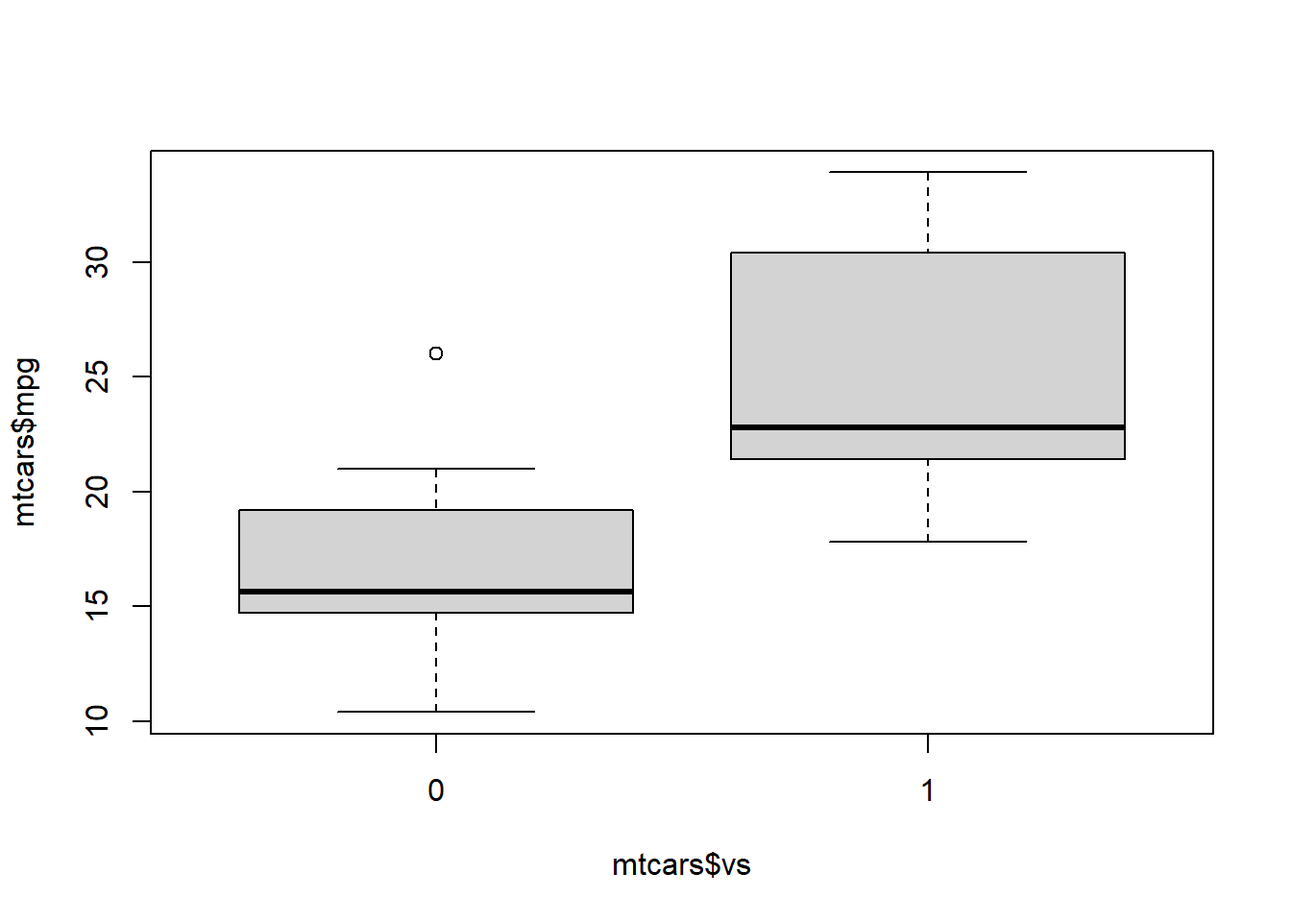
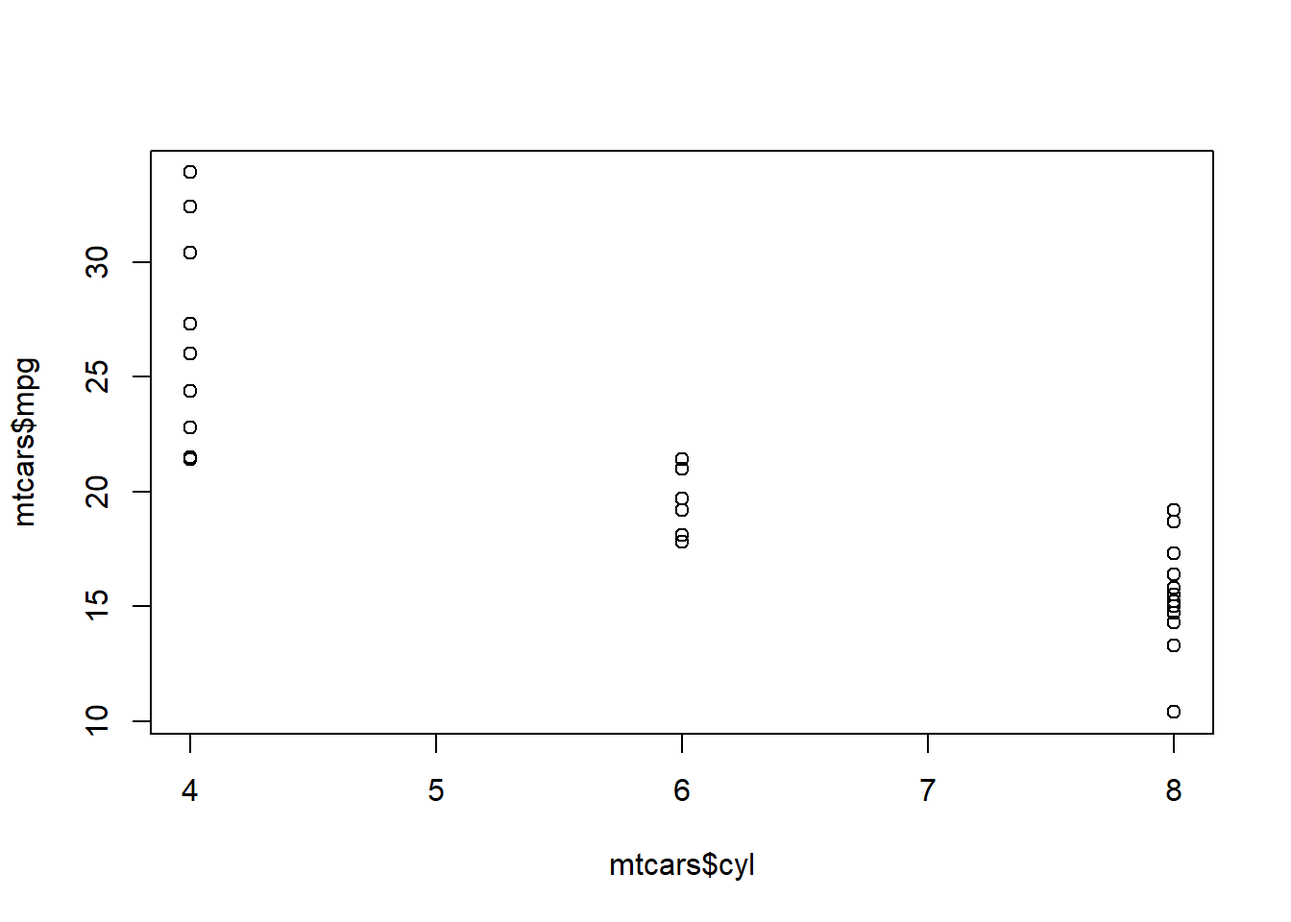
Update Viz

diff --git a/docs/dataviz.html b/docs/dataviz.html
@@ -1706,12 +1706,19 @@ TRUE </code></pre>
 <li>For example, the plot below would be better served as a boxplot.</li>
 </ul>
 <div class="cell">
-<div class="sourceCode cell-code" id="cb126"><pre class="sourceCode r code-with-copy"><code class="sourceCode r"><span id="cb126-1"><a href="#cb126-1" aria-hidden="true" tabindex="-1"></a><span class="fu">plot</span>(mtcars<span class="sc">$</span>mpg <span class="sc">~</span> mtcars<span class="sc">$</span>vs)</span>
-<span id="cb126-2"><a href="#cb126-2" aria-hidden="true" tabindex="-1"></a><span class="fu">boxplot</span>(mtcars<span class="sc">$</span>mpg <span class="sc">~</span> mtcars<span class="sc">$</span>vs)</span></code><button title="Copy to Clipboard" class="code-copy-button"><i class="bi"></i></button></pre></div>
+<div class="sourceCode cell-code" id="cb126"><pre class="sourceCode r code-with-copy"><code class="sourceCode r"><span id="cb126-1"><a href="#cb126-1" aria-hidden="true" tabindex="-1"></a><span class="fu">plot</span>(mtcars<span class="sc">$</span>mpg <span class="sc">~</span> mtcars<span class="sc">$</span>cyl)</span></code><button title="Copy to Clipboard" class="code-copy-button"><i class="bi"></i></button></pre></div>
 <div class="cell-output-display">
 <div>
 <figure class="figure">
 <p><img src="dataviz_files/figure-html/unnamed-chunk-63-1.png" class="img-fluid figure-img" alt="Plot Example with Incorrect Data Type" width="672"></p>
+</figure>
+</div>
+</div>
+<div class="sourceCode cell-code" id="cb127"><pre class="sourceCode r code-with-copy"><code class="sourceCode r"><span id="cb127-1"><a href="#cb127-1" aria-hidden="true" tabindex="-1"></a><span class="fu">boxplot</span>(mtcars<span class="sc">$</span>mpg <span class="sc">~</span> mtcars<span class="sc">$</span>cyl)</span></code><button title="Copy to Clipboard" class="code-copy-button"><i class="bi"></i></button></pre></div>
+<div class="cell-output-display">
+<div>
+<figure class="figure">
+<p><img src="dataviz_files/figure-html/unnamed-chunk-63-2.png" class="img-fluid figure-img" alt="Plot Example in Boxplot to Show Comparison" width="672"></p>
 </figure>
 </div>
 </div>
@@ -1720,7 +1727,7 @@ TRUE </code></pre>
 <li>Using ggplot, we would have the same issue. Since vs is a categorical variable, it does not look right when we use the geom_point() later.</li>
 </ul>
 <div class="cell">
-<div class="sourceCode cell-code" id="cb127"><pre class="sourceCode r code-with-copy"><code class="sourceCode r"><span id="cb127-1"><a href="#cb127-1" aria-hidden="true" tabindex="-1"></a><span class="fu">ggplot</span>(mtcars, <span class="fu">aes</span>(<span class="at">x =</span> vs, <span class="at">y =</span> mpg)) <span class="sc">+</span> <span class="fu">geom_point</span>() <span class="sc">+</span> <span class="fu">stat_smooth</span>(<span class="at">method =</span> <span class="st">"lm"</span>)</span></code><button title="Copy to Clipboard" class="code-copy-button"><i class="bi"></i></button></pre></div>
+<div class="sourceCode cell-code" id="cb128"><pre class="sourceCode r code-with-copy"><code class="sourceCode r"><span id="cb128-1"><a href="#cb128-1" aria-hidden="true" tabindex="-1"></a><span class="fu">ggplot</span>(mtcars, <span class="fu">aes</span>(cyl, mpg)) <span class="sc">+</span> <span class="fu">geom_point</span>() <span class="sc">+</span> <span class="fu">stat_smooth</span>(<span class="at">method =</span> <span class="st">"lm"</span>)</span></code><button title="Copy to Clipboard" class="code-copy-button"><i class="bi"></i></button></pre></div>
 <div class="cell-output-display">
 <div>
 <figure class="figure">
@@ -1732,13 +1739,31 @@ TRUE </code></pre>
 <ul>
 <li>Instead, we would want the geom_boxplot() layer like shown below. The stat_smooth() is also not an applicable layer to a boxplot and would need to be removed.<br>
 </li>
+<li>When you create multiple boxplots in ggplot2 and one or more variables are numeric but not converted to factors, only one boxplot may show up because ggplot2 treats numeric variables as continuous. Boxplots group data by categorical variables, so if your variable is continuous, ggplot interprets it as a single category and produces only one boxplot.</li>
+<li>Below, we still have an error.</li>
 </ul>
 <div class="cell">
-<div class="sourceCode cell-code" id="cb128"><pre class="sourceCode r code-with-copy"><code class="sourceCode r"><span id="cb128-1"><a href="#cb128-1" aria-hidden="true" tabindex="-1"></a><span class="fu">ggplot</span>(mtcars, <span class="fu">aes</span>(<span class="at">x =</span> vs, <span class="at">y =</span> mpg)) <span class="sc">+</span> <span class="fu">geom_boxplot</span>()</span></code><button title="Copy to Clipboard" class="code-copy-button"><i class="bi"></i></button></pre></div>
+<div class="sourceCode cell-code" id="cb129"><pre class="sourceCode r code-with-copy"><code class="sourceCode r"><span id="cb129-1"><a href="#cb129-1" aria-hidden="true" tabindex="-1"></a><span class="fu">ggplot</span>(mtcars, <span class="fu">aes</span>(cyl, mpg)) <span class="sc">+</span> <span class="fu">geom_boxplot</span>()</span></code><button title="Copy to Clipboard" class="code-copy-button"><i class="bi"></i></button></pre></div>
 <div class="cell-output-display">
 <div>
 <figure class="figure">
 <p><img src="dataviz_files/figure-html/unnamed-chunk-65-1.png" class="img-fluid figure-img" alt="ggplot2 Example with Boxplot" width="672"></p>
+</figure>
+</div>
+</div>
+</div>
+<ul>
+<li>Something still is not quite right here, so we would need to make sure cyl is correctly a factor before making the boxplot. Now, we should see multiple boxplots, one for each categorical level. To fix this, you need to convert the grouping variable to a factor using as.factor() in your data, so ggplot will recognize it as a categorical variable and display multiple boxplots accordingly.</li>
+</ul>
+<div class="cell">
+<div class="sourceCode cell-code" id="cb130"><pre class="sourceCode r code-with-copy"><code class="sourceCode r"><span id="cb130-1"><a href="#cb130-1" aria-hidden="true" tabindex="-1"></a>mtcars <span class="ot">&lt;-</span> mtcars <span class="sc">%&gt;%</span></span>
+<span id="cb130-2"><a href="#cb130-2" aria-hidden="true" tabindex="-1"></a>    <span class="fu">mutate</span>(<span class="at">cyl =</span> <span class="fu">as.factor</span>(cyl))</span>
+<span id="cb130-3"><a href="#cb130-3" aria-hidden="true" tabindex="-1"></a></span>
+<span id="cb130-4"><a href="#cb130-4" aria-hidden="true" tabindex="-1"></a><span class="fu">ggplot</span>(mtcars, <span class="fu">aes</span>(cyl, mpg)) <span class="sc">+</span> <span class="fu">geom_boxplot</span>()</span></code><button title="Copy to Clipboard" class="code-copy-button"><i class="bi"></i></button></pre></div>
+<div class="cell-output-display">
+<div>
+<figure class="figure">
+<p><img src="dataviz_files/figure-html/unnamed-chunk-66-1.png" class="img-fluid figure-img" width="672"></p>
 </figure>
 </div>
 </div>
@@ -1753,28 +1778,28 @@ TRUE </code></pre>
 <div class="cell-output-display">
 <div>
 <figure class="figure">
-<p><img src="dataviz_files/figure-html/unnamed-chunk-66-1.png" class="img-fluid figure-img" width="672"></p>
+<p><img src="dataviz_files/figure-html/unnamed-chunk-67-1.png" class="img-fluid figure-img" width="672"></p>
 </figure>
 </div>
 </div>
 <div class="cell-output-display">
 <div>
 <figure class="figure">
-<p><img src="dataviz_files/figure-html/unnamed-chunk-66-2.png" class="img-fluid figure-img" width="672"></p>
+<p><img src="dataviz_files/figure-html/unnamed-chunk-67-2.png" class="img-fluid figure-img" width="672"></p>
 </figure>
 </div>
 </div>
 <div class="cell-output-display">
 <div>
 <figure class="figure">
-<p><img src="dataviz_files/figure-html/unnamed-chunk-66-3.png" class="img-fluid figure-img" width="672"></p>
+<p><img src="dataviz_files/figure-html/unnamed-chunk-67-3.png" class="img-fluid figure-img" width="672"></p>
 </figure>
 </div>
 </div>
 <div class="cell-output-display">
 <div>
 <figure class="figure">
-<p><img src="dataviz_files/figure-html/unnamed-chunk-66-4.png" class="img-fluid figure-img" width="672"></p>
+<p><img src="dataviz_files/figure-html/unnamed-chunk-67-4.png" class="img-fluid figure-img" width="672"></p>
 </figure>
 </div>
 </div>
@@ -1796,21 +1821,21 @@ TRUE </code></pre>
 <li>The select statement in dplyr has a conflict with the select statement in MASS. Since we used MASS earlier, we have to specify which package we want to use select from. We want to use select from dplyr, so we add dplyr:: before the function.</li>
 </ul>
 <div class="cell">
-<div class="sourceCode cell-code" id="cb129"><pre class="sourceCode r code-with-copy"><code class="sourceCode r"><span id="cb129-1"><a href="#cb129-1" aria-hidden="true" tabindex="-1"></a>nhanes <span class="ot">&lt;-</span> <span class="fu">read.csv</span>(<span class="st">"data/nhanes2012.csv"</span>)</span>
-<span id="cb129-2"><a href="#cb129-2" aria-hidden="true" tabindex="-1"></a><span class="co"># summary(nhanes)</span></span>
-<span id="cb129-3"><a href="#cb129-3" aria-hidden="true" tabindex="-1"></a></span>
-<span id="cb129-4"><a href="#cb129-4" aria-hidden="true" tabindex="-1"></a>nhanes.clean <span class="ot">&lt;-</span> nhanes <span class="sc">%&gt;%</span></span>
-<span id="cb129-5"><a href="#cb129-5" aria-hidden="true" tabindex="-1"></a>    dplyr<span class="sc">::</span><span class="fu">select</span>(AUQ300, AUQ310, AUQ320, AUQ060, AUQ070, AUQ080) <span class="sc">%&gt;%</span></span>
-<span id="cb129-6"><a href="#cb129-6" aria-hidden="true" tabindex="-1"></a>    <span class="fu">mutate</span>(<span class="at">AUQ300 =</span> <span class="fu">recode_factor</span>(AUQ300, <span class="st">`</span><span class="at">1</span><span class="st">`</span> <span class="ot">=</span> <span class="st">"Yes"</span>, <span class="st">`</span><span class="at">2</span><span class="st">`</span> <span class="ot">=</span> <span class="st">"No"</span>)) <span class="sc">%&gt;%</span></span>
-<span id="cb129-7"><a href="#cb129-7" aria-hidden="true" tabindex="-1"></a>    <span class="fu">mutate</span>(<span class="at">AUQ310 =</span> <span class="fu">recode_factor</span>(AUQ310, <span class="st">`</span><span class="at">1</span><span class="st">`</span> <span class="ot">=</span> <span class="st">"1 to less than 100"</span>, <span class="st">`</span><span class="at">2</span><span class="st">`</span> <span class="ot">=</span> <span class="st">"100 to less than 1000"</span>,</span>
-<span id="cb129-8"><a href="#cb129-8" aria-hidden="true" tabindex="-1"></a>        <span class="st">`</span><span class="at">3</span><span class="st">`</span> <span class="ot">=</span> <span class="st">"1000 to less than 10k"</span>, <span class="st">`</span><span class="at">4</span><span class="st">`</span> <span class="ot">=</span> <span class="st">"10k to less than 50k"</span>, <span class="st">`</span><span class="at">5</span><span class="st">`</span> <span class="ot">=</span> <span class="st">"50k or more"</span>,</span>
-<span id="cb129-9"><a href="#cb129-9" aria-hidden="true" tabindex="-1"></a>        <span class="st">`</span><span class="at">7</span><span class="st">`</span> <span class="ot">=</span> <span class="st">"Refused"</span>, <span class="st">`</span><span class="at">9</span><span class="st">`</span> <span class="ot">=</span> <span class="st">"Don't know"</span>)) <span class="sc">%&gt;%</span></span>
-<span id="cb129-10"><a href="#cb129-10" aria-hidden="true" tabindex="-1"></a>    <span class="fu">mutate</span>(<span class="at">AUQ060 =</span> <span class="fu">recode_factor</span>(AUQ060, <span class="st">`</span><span class="at">1</span><span class="st">`</span> <span class="ot">=</span> <span class="st">"Yes"</span>, <span class="st">`</span><span class="at">2</span><span class="st">`</span> <span class="ot">=</span> <span class="st">"No"</span>)) <span class="sc">%&gt;%</span></span>
-<span id="cb129-11"><a href="#cb129-11" aria-hidden="true" tabindex="-1"></a>    <span class="fu">mutate</span>(<span class="at">AUQ070 =</span> <span class="fu">recode_factor</span>(AUQ070, <span class="st">`</span><span class="at">1</span><span class="st">`</span> <span class="ot">=</span> <span class="st">"Yes"</span>, <span class="st">`</span><span class="at">2</span><span class="st">`</span> <span class="ot">=</span> <span class="st">"No"</span>)) <span class="sc">%&gt;%</span></span>
-<span id="cb129-12"><a href="#cb129-12" aria-hidden="true" tabindex="-1"></a>    <span class="fu">mutate</span>(<span class="at">AUQ080 =</span> <span class="fu">recode_factor</span>(AUQ080, <span class="st">`</span><span class="at">1</span><span class="st">`</span> <span class="ot">=</span> <span class="st">"Yes"</span>, <span class="st">`</span><span class="at">2</span><span class="st">`</span> <span class="ot">=</span> <span class="st">"No"</span>)) <span class="sc">%&gt;%</span></span>
-<span id="cb129-13"><a href="#cb129-13" aria-hidden="true" tabindex="-1"></a>    <span class="fu">mutate</span>(<span class="at">AUQ320 =</span> <span class="fu">recode_factor</span>(AUQ320, <span class="st">`</span><span class="at">1</span><span class="st">`</span> <span class="ot">=</span> <span class="st">"Always"</span>, <span class="st">`</span><span class="at">2</span><span class="st">`</span> <span class="ot">=</span> <span class="st">"Usually"</span>,</span>
-<span id="cb129-14"><a href="#cb129-14" aria-hidden="true" tabindex="-1"></a>        <span class="st">`</span><span class="at">3</span><span class="st">`</span> <span class="ot">=</span> <span class="st">"About half the time"</span>, <span class="st">`</span><span class="at">4</span><span class="st">`</span> <span class="ot">=</span> <span class="st">"Seldom"</span>, <span class="st">`</span><span class="at">5</span><span class="st">`</span> <span class="ot">=</span> <span class="st">"Never"</span>))</span>
-<span id="cb129-15"><a href="#cb129-15" aria-hidden="true" tabindex="-1"></a><span class="fu">summary</span>(nhanes.clean)</span></code><button title="Copy to Clipboard" class="code-copy-button"><i class="bi"></i></button></pre></div>
+<div class="sourceCode cell-code" id="cb131"><pre class="sourceCode r code-with-copy"><code class="sourceCode r"><span id="cb131-1"><a href="#cb131-1" aria-hidden="true" tabindex="-1"></a>nhanes <span class="ot">&lt;-</span> <span class="fu">read.csv</span>(<span class="st">"data/nhanes2012.csv"</span>)</span>
+<span id="cb131-2"><a href="#cb131-2" aria-hidden="true" tabindex="-1"></a><span class="co"># summary(nhanes)</span></span>
+<span id="cb131-3"><a href="#cb131-3" aria-hidden="true" tabindex="-1"></a></span>
+<span id="cb131-4"><a href="#cb131-4" aria-hidden="true" tabindex="-1"></a>nhanes.clean <span class="ot">&lt;-</span> nhanes <span class="sc">%&gt;%</span></span>
+<span id="cb131-5"><a href="#cb131-5" aria-hidden="true" tabindex="-1"></a>    dplyr<span class="sc">::</span><span class="fu">select</span>(AUQ300, AUQ310, AUQ320, AUQ060, AUQ070, AUQ080) <span class="sc">%&gt;%</span></span>
+<span id="cb131-6"><a href="#cb131-6" aria-hidden="true" tabindex="-1"></a>    <span class="fu">mutate</span>(<span class="at">AUQ300 =</span> <span class="fu">recode_factor</span>(AUQ300, <span class="st">`</span><span class="at">1</span><span class="st">`</span> <span class="ot">=</span> <span class="st">"Yes"</span>, <span class="st">`</span><span class="at">2</span><span class="st">`</span> <span class="ot">=</span> <span class="st">"No"</span>)) <span class="sc">%&gt;%</span></span>
+<span id="cb131-7"><a href="#cb131-7" aria-hidden="true" tabindex="-1"></a>    <span class="fu">mutate</span>(<span class="at">AUQ310 =</span> <span class="fu">recode_factor</span>(AUQ310, <span class="st">`</span><span class="at">1</span><span class="st">`</span> <span class="ot">=</span> <span class="st">"1 to less than 100"</span>, <span class="st">`</span><span class="at">2</span><span class="st">`</span> <span class="ot">=</span> <span class="st">"100 to less than 1000"</span>,</span>
+<span id="cb131-8"><a href="#cb131-8" aria-hidden="true" tabindex="-1"></a>        <span class="st">`</span><span class="at">3</span><span class="st">`</span> <span class="ot">=</span> <span class="st">"1000 to less than 10k"</span>, <span class="st">`</span><span class="at">4</span><span class="st">`</span> <span class="ot">=</span> <span class="st">"10k to less than 50k"</span>, <span class="st">`</span><span class="at">5</span><span class="st">`</span> <span class="ot">=</span> <span class="st">"50k or more"</span>,</span>
+<span id="cb131-9"><a href="#cb131-9" aria-hidden="true" tabindex="-1"></a>        <span class="st">`</span><span class="at">7</span><span class="st">`</span> <span class="ot">=</span> <span class="st">"Refused"</span>, <span class="st">`</span><span class="at">9</span><span class="st">`</span> <span class="ot">=</span> <span class="st">"Don't know"</span>)) <span class="sc">%&gt;%</span></span>
+<span id="cb131-10"><a href="#cb131-10" aria-hidden="true" tabindex="-1"></a>    <span class="fu">mutate</span>(<span class="at">AUQ060 =</span> <span class="fu">recode_factor</span>(AUQ060, <span class="st">`</span><span class="at">1</span><span class="st">`</span> <span class="ot">=</span> <span class="st">"Yes"</span>, <span class="st">`</span><span class="at">2</span><span class="st">`</span> <span class="ot">=</span> <span class="st">"No"</span>)) <span class="sc">%&gt;%</span></span>
+<span id="cb131-11"><a href="#cb131-11" aria-hidden="true" tabindex="-1"></a>    <span class="fu">mutate</span>(<span class="at">AUQ070 =</span> <span class="fu">recode_factor</span>(AUQ070, <span class="st">`</span><span class="at">1</span><span class="st">`</span> <span class="ot">=</span> <span class="st">"Yes"</span>, <span class="st">`</span><span class="at">2</span><span class="st">`</span> <span class="ot">=</span> <span class="st">"No"</span>)) <span class="sc">%&gt;%</span></span>
+<span id="cb131-12"><a href="#cb131-12" aria-hidden="true" tabindex="-1"></a>    <span class="fu">mutate</span>(<span class="at">AUQ080 =</span> <span class="fu">recode_factor</span>(AUQ080, <span class="st">`</span><span class="at">1</span><span class="st">`</span> <span class="ot">=</span> <span class="st">"Yes"</span>, <span class="st">`</span><span class="at">2</span><span class="st">`</span> <span class="ot">=</span> <span class="st">"No"</span>)) <span class="sc">%&gt;%</span></span>
+<span id="cb131-13"><a href="#cb131-13" aria-hidden="true" tabindex="-1"></a>    <span class="fu">mutate</span>(<span class="at">AUQ320 =</span> <span class="fu">recode_factor</span>(AUQ320, <span class="st">`</span><span class="at">1</span><span class="st">`</span> <span class="ot">=</span> <span class="st">"Always"</span>, <span class="st">`</span><span class="at">2</span><span class="st">`</span> <span class="ot">=</span> <span class="st">"Usually"</span>,</span>
+<span id="cb131-14"><a href="#cb131-14" aria-hidden="true" tabindex="-1"></a>        <span class="st">`</span><span class="at">3</span><span class="st">`</span> <span class="ot">=</span> <span class="st">"About half the time"</span>, <span class="st">`</span><span class="at">4</span><span class="st">`</span> <span class="ot">=</span> <span class="st">"Seldom"</span>, <span class="st">`</span><span class="at">5</span><span class="st">`</span> <span class="ot">=</span> <span class="st">"Never"</span>))</span>
+<span id="cb131-15"><a href="#cb131-15" aria-hidden="true" tabindex="-1"></a><span class="fu">summary</span>(nhanes.clean)</span></code><button title="Copy to Clipboard" class="code-copy-button"><i class="bi"></i></button></pre></div>
 <div class="cell-output cell-output-stdout">
 <pre><code>  AUQ300                       AUQ310                     AUQ320    
  Yes :1613   1 to less than 100   : 701   Always             : 583  
@@ -1835,82 +1860,82 @@ TRUE </code></pre>
 <li>The most applicable chart to graph 2 categorical variables is a barchart. This requires calculating frequencies, and then graphing. Using ggplot, the frequencies are calculated automatically.</li>
 </ul>
 <div class="cell">
-<div class="sourceCode cell-code" id="cb131"><pre class="sourceCode r code-with-copy"><code class="sourceCode r"><span id="cb131-1"><a href="#cb131-1" aria-hidden="true" tabindex="-1"></a>nhanes.clean <span class="sc">%&gt;%</span></span>
-<span id="cb131-2"><a href="#cb131-2" aria-hidden="true" tabindex="-1"></a>    <span class="fu">drop_na</span>(AUQ310) <span class="sc">%&gt;%</span></span>
-<span id="cb131-3"><a href="#cb131-3" aria-hidden="true" tabindex="-1"></a>    <span class="fu">drop_na</span>(AUQ060) <span class="sc">%&gt;%</span></span>
-<span id="cb131-4"><a href="#cb131-4" aria-hidden="true" tabindex="-1"></a>    <span class="fu">ggplot</span>(<span class="fu">aes</span>(<span class="at">x =</span> AUQ310, <span class="at">fill =</span> AUQ060)) <span class="sc">+</span> <span class="fu">geom_bar</span>(<span class="at">position =</span> <span class="st">"dodge"</span>) <span class="sc">+</span></span>
-<span id="cb131-5"><a href="#cb131-5" aria-hidden="true" tabindex="-1"></a>    <span class="fu">labs</span>(<span class="at">x =</span> <span class="st">"How many rounds have you fired"</span>, <span class="at">title =</span> <span class="st">"Hearing Whisper Across Room vs. Num Rounds Fired"</span>,</span>
-<span id="cb131-6"><a href="#cb131-6" aria-hidden="true" tabindex="-1"></a>        <span class="at">y =</span> <span class="st">"Frequency"</span>)</span></code><button title="Copy to Clipboard" class="code-copy-button"><i class="bi"></i></button></pre></div>
-<div class="cell-output-display">
-<div>
-<figure class="figure">
-<p><img src="dataviz_files/figure-html/unnamed-chunk-68-1.png" class="img-fluid figure-img" width="672"></p>
-</figure>
-</div>
-</div>
-<div class="sourceCode cell-code" id="cb132"><pre class="sourceCode r code-with-copy"><code class="sourceCode r"><span id="cb132-1"><a href="#cb132-1" aria-hidden="true" tabindex="-1"></a>nhanes.clean <span class="sc">%&gt;%</span></span>
-<span id="cb132-2"><a href="#cb132-2" aria-hidden="true" tabindex="-1"></a>    <span class="fu">drop_na</span>(AUQ310) <span class="sc">%&gt;%</span></span>
-<span id="cb132-3"><a href="#cb132-3" aria-hidden="true" tabindex="-1"></a>    <span class="fu">drop_na</span>(AUQ070) <span class="sc">%&gt;%</span></span>
-<span id="cb132-4"><a href="#cb132-4" aria-hidden="true" tabindex="-1"></a>    <span class="fu">ggplot</span>(<span class="fu">aes</span>(<span class="at">x =</span> AUQ310, <span class="at">fill =</span> AUQ070)) <span class="sc">+</span> <span class="fu">geom_bar</span>(<span class="at">position =</span> <span class="st">"dodge"</span>) <span class="sc">+</span></span>
-<span id="cb132-5"><a href="#cb132-5" aria-hidden="true" tabindex="-1"></a>    <span class="fu">labs</span>(<span class="at">x =</span> <span class="st">"How many rounds have you fired"</span>, <span class="at">title =</span> <span class="st">"Hearing Normal Across Room vs. Num Rounds Fired"</span>,</span>
-<span id="cb132-6"><a href="#cb132-6" aria-hidden="true" tabindex="-1"></a>        <span class="at">y =</span> <span class="st">"Frequency"</span>)</span></code><button title="Copy to Clipboard" class="code-copy-button"><i class="bi"></i></button></pre></div>
-<div class="cell-output-display">
-<div>
-<figure class="figure">
-<p><img src="dataviz_files/figure-html/unnamed-chunk-68-2.png" class="img-fluid figure-img" width="672"></p>
-</figure>
-</div>
-</div>
 <div class="sourceCode cell-code" id="cb133"><pre class="sourceCode r code-with-copy"><code class="sourceCode r"><span id="cb133-1"><a href="#cb133-1" aria-hidden="true" tabindex="-1"></a>nhanes.clean <span class="sc">%&gt;%</span></span>
 <span id="cb133-2"><a href="#cb133-2" aria-hidden="true" tabindex="-1"></a>    <span class="fu">drop_na</span>(AUQ310) <span class="sc">%&gt;%</span></span>
-<span id="cb133-3"><a href="#cb133-3" aria-hidden="true" tabindex="-1"></a>    <span class="fu">drop_na</span>(AUQ080) <span class="sc">%&gt;%</span></span>
-<span id="cb133-4"><a href="#cb133-4" aria-hidden="true" tabindex="-1"></a>    <span class="fu">ggplot</span>(<span class="fu">aes</span>(<span class="at">x =</span> AUQ310, <span class="at">fill =</span> AUQ080)) <span class="sc">+</span> <span class="fu">geom_bar</span>(<span class="at">position =</span> <span class="st">"dodge"</span>) <span class="sc">+</span></span>
-<span id="cb133-5"><a href="#cb133-5" aria-hidden="true" tabindex="-1"></a>    <span class="fu">labs</span>(<span class="at">x =</span> <span class="st">"How many rounds have you fired"</span>, <span class="at">title =</span> <span class="st">"Hearing Shout Across Room vs. Num Rounds Fired"</span>,</span>
+<span id="cb133-3"><a href="#cb133-3" aria-hidden="true" tabindex="-1"></a>    <span class="fu">drop_na</span>(AUQ060) <span class="sc">%&gt;%</span></span>
+<span id="cb133-4"><a href="#cb133-4" aria-hidden="true" tabindex="-1"></a>    <span class="fu">ggplot</span>(<span class="fu">aes</span>(<span class="at">x =</span> AUQ310, <span class="at">fill =</span> AUQ060)) <span class="sc">+</span> <span class="fu">geom_bar</span>(<span class="at">position =</span> <span class="st">"dodge"</span>) <span class="sc">+</span></span>
+<span id="cb133-5"><a href="#cb133-5" aria-hidden="true" tabindex="-1"></a>    <span class="fu">labs</span>(<span class="at">x =</span> <span class="st">"How many rounds have you fired"</span>, <span class="at">title =</span> <span class="st">"Hearing Whisper Across Room vs. Num Rounds Fired"</span>,</span>
 <span id="cb133-6"><a href="#cb133-6" aria-hidden="true" tabindex="-1"></a>        <span class="at">y =</span> <span class="st">"Frequency"</span>)</span></code><button title="Copy to Clipboard" class="code-copy-button"><i class="bi"></i></button></pre></div>
 <div class="cell-output-display">
 <div>
 <figure class="figure">
-<p><img src="dataviz_files/figure-html/unnamed-chunk-68-3.png" class="img-fluid figure-img" width="672"></p>
+<p><img src="dataviz_files/figure-html/unnamed-chunk-69-1.png" class="img-fluid figure-img" width="672"></p>
 </figure>
 </div>
 </div>
-<div class="sourceCode cell-code" id="cb134"><pre class="sourceCode r code-with-copy"><code class="sourceCode r"><span id="cb134-1"><a href="#cb134-1" aria-hidden="true" tabindex="-1"></a><span class="do">############# Wear hearing protection when shooting</span></span>
-<span id="cb134-2"><a href="#cb134-2" aria-hidden="true" tabindex="-1"></a>nhanes.clean <span class="sc">%&gt;%</span></span>
-<span id="cb134-3"><a href="#cb134-3" aria-hidden="true" tabindex="-1"></a>    <span class="fu">drop_na</span>(AUQ320) <span class="sc">%&gt;%</span></span>
-<span id="cb134-4"><a href="#cb134-4" aria-hidden="true" tabindex="-1"></a>    <span class="fu">drop_na</span>(AUQ060) <span class="sc">%&gt;%</span></span>
-<span id="cb134-5"><a href="#cb134-5" aria-hidden="true" tabindex="-1"></a>    <span class="fu">ggplot</span>(<span class="fu">aes</span>(<span class="at">x =</span> AUQ320, <span class="at">fill =</span> AUQ060)) <span class="sc">+</span> <span class="fu">geom_bar</span>(<span class="at">position =</span> <span class="st">"dodge"</span>) <span class="sc">+</span></span>
-<span id="cb134-6"><a href="#cb134-6" aria-hidden="true" tabindex="-1"></a>    <span class="fu">labs</span>(<span class="at">x =</span> <span class="st">"Wear hearing protection when shooting"</span>, <span class="at">title =</span> <span class="st">"Hearing Whisper Across Room vs. Use of Hearing Protection"</span>,</span>
-<span id="cb134-7"><a href="#cb134-7" aria-hidden="true" tabindex="-1"></a>        <span class="at">y =</span> <span class="st">"Frequency"</span>)</span></code><button title="Copy to Clipboard" class="code-copy-button"><i class="bi"></i></button></pre></div>
+<div class="sourceCode cell-code" id="cb134"><pre class="sourceCode r code-with-copy"><code class="sourceCode r"><span id="cb134-1"><a href="#cb134-1" aria-hidden="true" tabindex="-1"></a>nhanes.clean <span class="sc">%&gt;%</span></span>
+<span id="cb134-2"><a href="#cb134-2" aria-hidden="true" tabindex="-1"></a>    <span class="fu">drop_na</span>(AUQ310) <span class="sc">%&gt;%</span></span>
+<span id="cb134-3"><a href="#cb134-3" aria-hidden="true" tabindex="-1"></a>    <span class="fu">drop_na</span>(AUQ070) <span class="sc">%&gt;%</span></span>
+<span id="cb134-4"><a href="#cb134-4" aria-hidden="true" tabindex="-1"></a>    <span class="fu">ggplot</span>(<span class="fu">aes</span>(<span class="at">x =</span> AUQ310, <span class="at">fill =</span> AUQ070)) <span class="sc">+</span> <span class="fu">geom_bar</span>(<span class="at">position =</span> <span class="st">"dodge"</span>) <span class="sc">+</span></span>
+<span id="cb134-5"><a href="#cb134-5" aria-hidden="true" tabindex="-1"></a>    <span class="fu">labs</span>(<span class="at">x =</span> <span class="st">"How many rounds have you fired"</span>, <span class="at">title =</span> <span class="st">"Hearing Normal Across Room vs. Num Rounds Fired"</span>,</span>
+<span id="cb134-6"><a href="#cb134-6" aria-hidden="true" tabindex="-1"></a>        <span class="at">y =</span> <span class="st">"Frequency"</span>)</span></code><button title="Copy to Clipboard" class="code-copy-button"><i class="bi"></i></button></pre></div>
 <div class="cell-output-display">
 <div>
 <figure class="figure">
-<p><img src="dataviz_files/figure-html/unnamed-chunk-68-4.png" class="img-fluid figure-img" width="672"></p>
+<p><img src="dataviz_files/figure-html/unnamed-chunk-69-2.png" class="img-fluid figure-img" width="672"></p>
 </figure>
 </div>
 </div>
 <div class="sourceCode cell-code" id="cb135"><pre class="sourceCode r code-with-copy"><code class="sourceCode r"><span id="cb135-1"><a href="#cb135-1" aria-hidden="true" tabindex="-1"></a>nhanes.clean <span class="sc">%&gt;%</span></span>
-<span id="cb135-2"><a href="#cb135-2" aria-hidden="true" tabindex="-1"></a>    <span class="fu">drop_na</span>(AUQ320) <span class="sc">%&gt;%</span></span>
-<span id="cb135-3"><a href="#cb135-3" aria-hidden="true" tabindex="-1"></a>    <span class="fu">drop_na</span>(AUQ070) <span class="sc">%&gt;%</span></span>
-<span id="cb135-4"><a href="#cb135-4" aria-hidden="true" tabindex="-1"></a>    <span class="fu">ggplot</span>(<span class="fu">aes</span>(<span class="at">x =</span> AUQ320, <span class="at">fill =</span> AUQ070)) <span class="sc">+</span> <span class="fu">geom_bar</span>(<span class="at">position =</span> <span class="st">"dodge"</span>) <span class="sc">+</span></span>
-<span id="cb135-5"><a href="#cb135-5" aria-hidden="true" tabindex="-1"></a>    <span class="fu">labs</span>(<span class="at">x =</span> <span class="st">"Wear hearing protection when shooting"</span>, <span class="at">title =</span> <span class="st">"Hearing Normal Across Room vs. Use of Hearing Protection"</span>,</span>
+<span id="cb135-2"><a href="#cb135-2" aria-hidden="true" tabindex="-1"></a>    <span class="fu">drop_na</span>(AUQ310) <span class="sc">%&gt;%</span></span>
+<span id="cb135-3"><a href="#cb135-3" aria-hidden="true" tabindex="-1"></a>    <span class="fu">drop_na</span>(AUQ080) <span class="sc">%&gt;%</span></span>
+<span id="cb135-4"><a href="#cb135-4" aria-hidden="true" tabindex="-1"></a>    <span class="fu">ggplot</span>(<span class="fu">aes</span>(<span class="at">x =</span> AUQ310, <span class="at">fill =</span> AUQ080)) <span class="sc">+</span> <span class="fu">geom_bar</span>(<span class="at">position =</span> <span class="st">"dodge"</span>) <span class="sc">+</span></span>
+<span id="cb135-5"><a href="#cb135-5" aria-hidden="true" tabindex="-1"></a>    <span class="fu">labs</span>(<span class="at">x =</span> <span class="st">"How many rounds have you fired"</span>, <span class="at">title =</span> <span class="st">"Hearing Shout Across Room vs. Num Rounds Fired"</span>,</span>
 <span id="cb135-6"><a href="#cb135-6" aria-hidden="true" tabindex="-1"></a>        <span class="at">y =</span> <span class="st">"Frequency"</span>)</span></code><button title="Copy to Clipboard" class="code-copy-button"><i class="bi"></i></button></pre></div>
 <div class="cell-output-display">
 <div>
 <figure class="figure">
-<p><img src="dataviz_files/figure-html/unnamed-chunk-68-5.png" class="img-fluid figure-img" width="672"></p>
+<p><img src="dataviz_files/figure-html/unnamed-chunk-69-3.png" class="img-fluid figure-img" width="672"></p>
 </figure>
 </div>
 </div>
-<div class="sourceCode cell-code" id="cb136"><pre class="sourceCode r code-with-copy"><code class="sourceCode r"><span id="cb136-1"><a href="#cb136-1" aria-hidden="true" tabindex="-1"></a>nhanes.clean <span class="sc">%&gt;%</span></span>
-<span id="cb136-2"><a href="#cb136-2" aria-hidden="true" tabindex="-1"></a>    <span class="fu">drop_na</span>(AUQ310) <span class="sc">%&gt;%</span></span>
-<span id="cb136-3"><a href="#cb136-3" aria-hidden="true" tabindex="-1"></a>    <span class="fu">drop_na</span>(AUQ080) <span class="sc">%&gt;%</span></span>
-<span id="cb136-4"><a href="#cb136-4" aria-hidden="true" tabindex="-1"></a>    <span class="fu">ggplot</span>(<span class="fu">aes</span>(<span class="at">x =</span> AUQ310, <span class="at">fill =</span> AUQ080)) <span class="sc">+</span> <span class="fu">geom_bar</span>(<span class="at">position =</span> <span class="st">"dodge"</span>) <span class="sc">+</span></span>
-<span id="cb136-5"><a href="#cb136-5" aria-hidden="true" tabindex="-1"></a>    <span class="fu">labs</span>(<span class="at">x =</span> <span class="st">"Wear hearing protection when shooting"</span>, <span class="at">title =</span> <span class="st">"Hearing Shout Across Room vs. Use of Hearing Protection"</span>,</span>
-<span id="cb136-6"><a href="#cb136-6" aria-hidden="true" tabindex="-1"></a>        <span class="at">y =</span> <span class="st">"Frequency"</span>)</span></code><button title="Copy to Clipboard" class="code-copy-button"><i class="bi"></i></button></pre></div>
+<div class="sourceCode cell-code" id="cb136"><pre class="sourceCode r code-with-copy"><code class="sourceCode r"><span id="cb136-1"><a href="#cb136-1" aria-hidden="true" tabindex="-1"></a><span class="do">############# Wear hearing protection when shooting</span></span>
+<span id="cb136-2"><a href="#cb136-2" aria-hidden="true" tabindex="-1"></a>nhanes.clean <span class="sc">%&gt;%</span></span>
+<span id="cb136-3"><a href="#cb136-3" aria-hidden="true" tabindex="-1"></a>    <span class="fu">drop_na</span>(AUQ320) <span class="sc">%&gt;%</span></span>
+<span id="cb136-4"><a href="#cb136-4" aria-hidden="true" tabindex="-1"></a>    <span class="fu">drop_na</span>(AUQ060) <span class="sc">%&gt;%</span></span>
+<span id="cb136-5"><a href="#cb136-5" aria-hidden="true" tabindex="-1"></a>    <span class="fu">ggplot</span>(<span class="fu">aes</span>(<span class="at">x =</span> AUQ320, <span class="at">fill =</span> AUQ060)) <span class="sc">+</span> <span class="fu">geom_bar</span>(<span class="at">position =</span> <span class="st">"dodge"</span>) <span class="sc">+</span></span>
+<span id="cb136-6"><a href="#cb136-6" aria-hidden="true" tabindex="-1"></a>    <span class="fu">labs</span>(<span class="at">x =</span> <span class="st">"Wear hearing protection when shooting"</span>, <span class="at">title =</span> <span class="st">"Hearing Whisper Across Room vs. Use of Hearing Protection"</span>,</span>
+<span id="cb136-7"><a href="#cb136-7" aria-hidden="true" tabindex="-1"></a>        <span class="at">y =</span> <span class="st">"Frequency"</span>)</span></code><button title="Copy to Clipboard" class="code-copy-button"><i class="bi"></i></button></pre></div>
 <div class="cell-output-display">
 <div>
 <figure class="figure">
-<p><img src="dataviz_files/figure-html/unnamed-chunk-68-6.png" class="img-fluid figure-img" width="672"></p>
+<p><img src="dataviz_files/figure-html/unnamed-chunk-69-4.png" class="img-fluid figure-img" width="672"></p>
+</figure>
+</div>
+</div>
+<div class="sourceCode cell-code" id="cb137"><pre class="sourceCode r code-with-copy"><code class="sourceCode r"><span id="cb137-1"><a href="#cb137-1" aria-hidden="true" tabindex="-1"></a>nhanes.clean <span class="sc">%&gt;%</span></span>
+<span id="cb137-2"><a href="#cb137-2" aria-hidden="true" tabindex="-1"></a>    <span class="fu">drop_na</span>(AUQ320) <span class="sc">%&gt;%</span></span>
+<span id="cb137-3"><a href="#cb137-3" aria-hidden="true" tabindex="-1"></a>    <span class="fu">drop_na</span>(AUQ070) <span class="sc">%&gt;%</span></span>
+<span id="cb137-4"><a href="#cb137-4" aria-hidden="true" tabindex="-1"></a>    <span class="fu">ggplot</span>(<span class="fu">aes</span>(<span class="at">x =</span> AUQ320, <span class="at">fill =</span> AUQ070)) <span class="sc">+</span> <span class="fu">geom_bar</span>(<span class="at">position =</span> <span class="st">"dodge"</span>) <span class="sc">+</span></span>
+<span id="cb137-5"><a href="#cb137-5" aria-hidden="true" tabindex="-1"></a>    <span class="fu">labs</span>(<span class="at">x =</span> <span class="st">"Wear hearing protection when shooting"</span>, <span class="at">title =</span> <span class="st">"Hearing Normal Across Room vs. Use of Hearing Protection"</span>,</span>
+<span id="cb137-6"><a href="#cb137-6" aria-hidden="true" tabindex="-1"></a>        <span class="at">y =</span> <span class="st">"Frequency"</span>)</span></code><button title="Copy to Clipboard" class="code-copy-button"><i class="bi"></i></button></pre></div>
+<div class="cell-output-display">
+<div>
+<figure class="figure">
+<p><img src="dataviz_files/figure-html/unnamed-chunk-69-5.png" class="img-fluid figure-img" width="672"></p>
+</figure>
+</div>
+</div>
+<div class="sourceCode cell-code" id="cb138"><pre class="sourceCode r code-with-copy"><code class="sourceCode r"><span id="cb138-1"><a href="#cb138-1" aria-hidden="true" tabindex="-1"></a>nhanes.clean <span class="sc">%&gt;%</span></span>
+<span id="cb138-2"><a href="#cb138-2" aria-hidden="true" tabindex="-1"></a>    <span class="fu">drop_na</span>(AUQ310) <span class="sc">%&gt;%</span></span>
+<span id="cb138-3"><a href="#cb138-3" aria-hidden="true" tabindex="-1"></a>    <span class="fu">drop_na</span>(AUQ080) <span class="sc">%&gt;%</span></span>
+<span id="cb138-4"><a href="#cb138-4" aria-hidden="true" tabindex="-1"></a>    <span class="fu">ggplot</span>(<span class="fu">aes</span>(<span class="at">x =</span> AUQ310, <span class="at">fill =</span> AUQ080)) <span class="sc">+</span> <span class="fu">geom_bar</span>(<span class="at">position =</span> <span class="st">"dodge"</span>) <span class="sc">+</span></span>
+<span id="cb138-5"><a href="#cb138-5" aria-hidden="true" tabindex="-1"></a>    <span class="fu">labs</span>(<span class="at">x =</span> <span class="st">"Wear hearing protection when shooting"</span>, <span class="at">title =</span> <span class="st">"Hearing Shout Across Room vs. Use of Hearing Protection"</span>,</span>
+<span id="cb138-6"><a href="#cb138-6" aria-hidden="true" tabindex="-1"></a>        <span class="at">y =</span> <span class="st">"Frequency"</span>)</span></code><button title="Copy to Clipboard" class="code-copy-button"><i class="bi"></i></button></pre></div>
+<div class="cell-output-display">
+<div>
+<figure class="figure">
+<p><img src="dataviz_files/figure-html/unnamed-chunk-69-6.png" class="img-fluid figure-img" width="672"></p>
 </figure>
 </div>
 </div>
